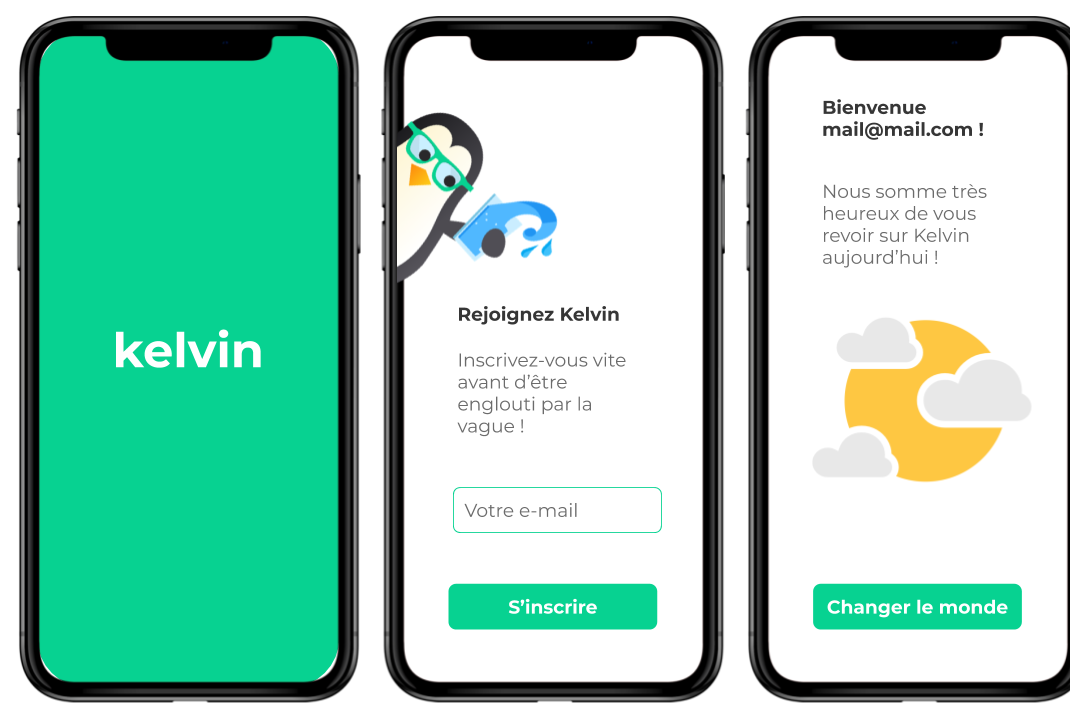
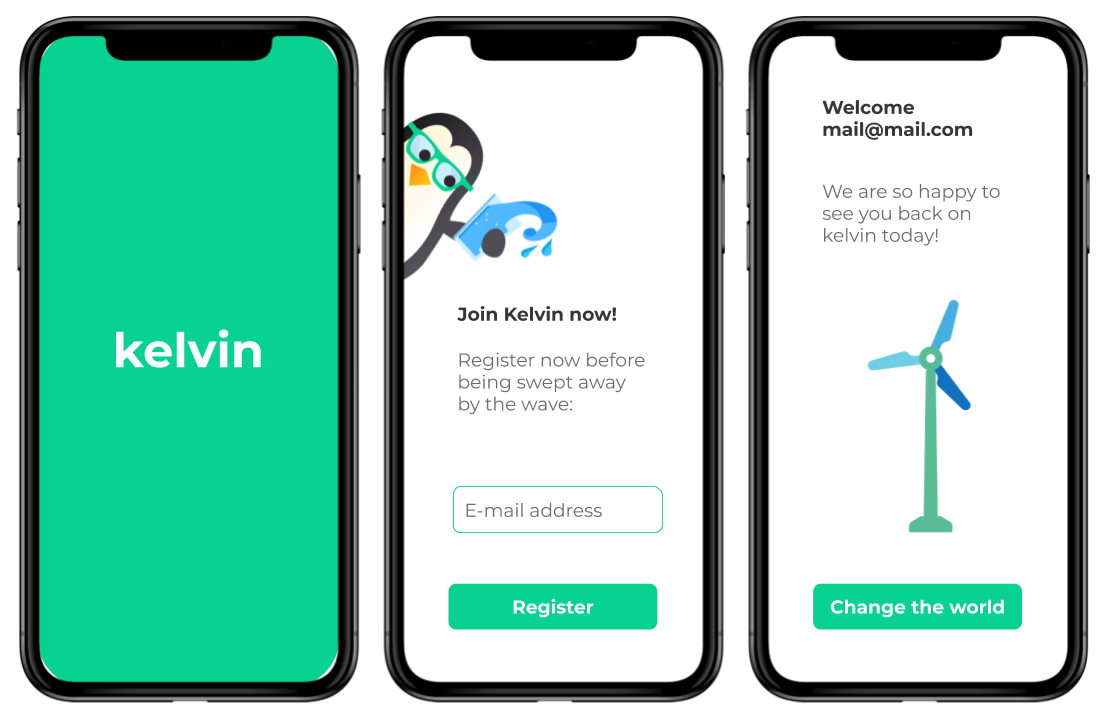
update test

Changed region(s): [[0.0, 0.0, 1.0, 0.9874], [0.0925, 0.4628, 0.2467, 0.5245], [0.0925, 0.0617, 0.1234, 0.0926]]

diff --git a/junior-test-frontend/README.md b/junior-test-frontend/README.md
@@ -30,5 +30,6 @@ The app is quite simple and consists of three screens like below:
 * Feel free to use any dependency
 
 ## Graphical elements
-- Graphics are available in this repo
-- The animation is available here: https://lottiefiles.com/4800-weather-partly-cloudy
+
+* Graphics are available in this repo
+* The animation is available here: <https://lottiefiles.com/21328-wind-mill>
